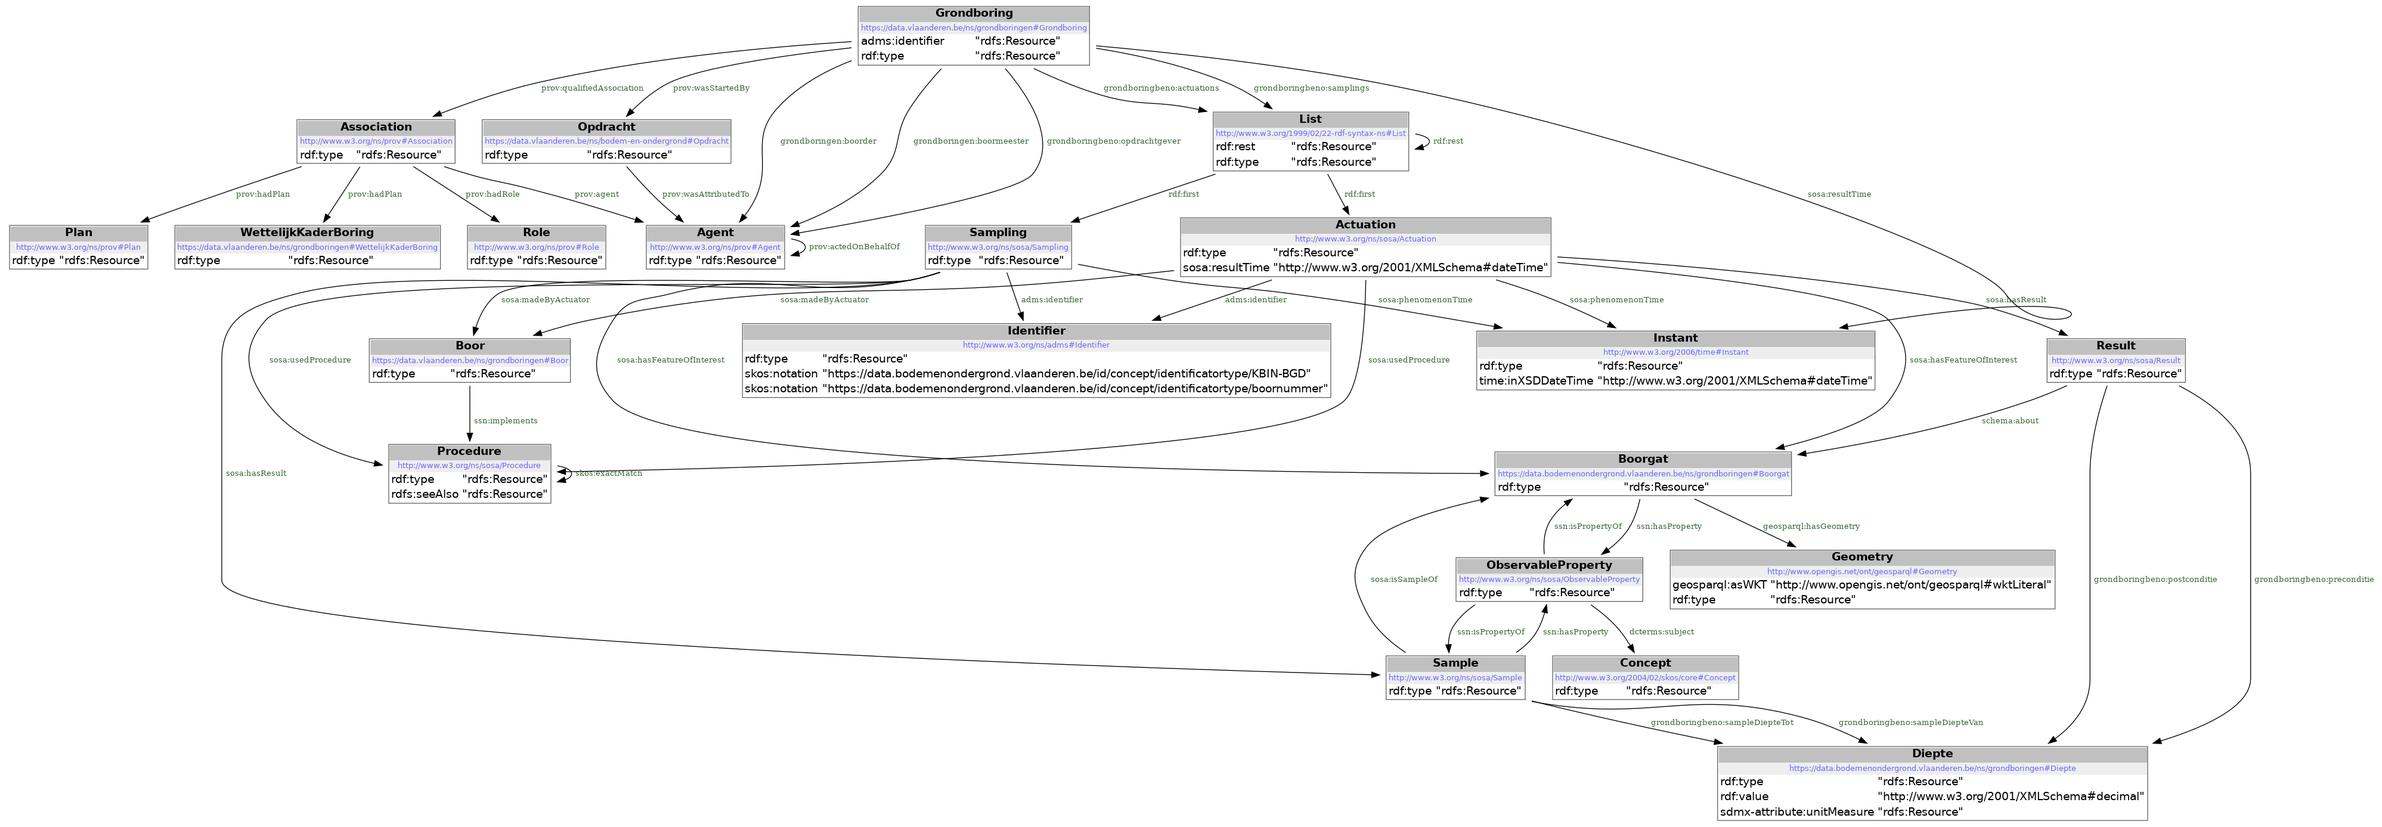
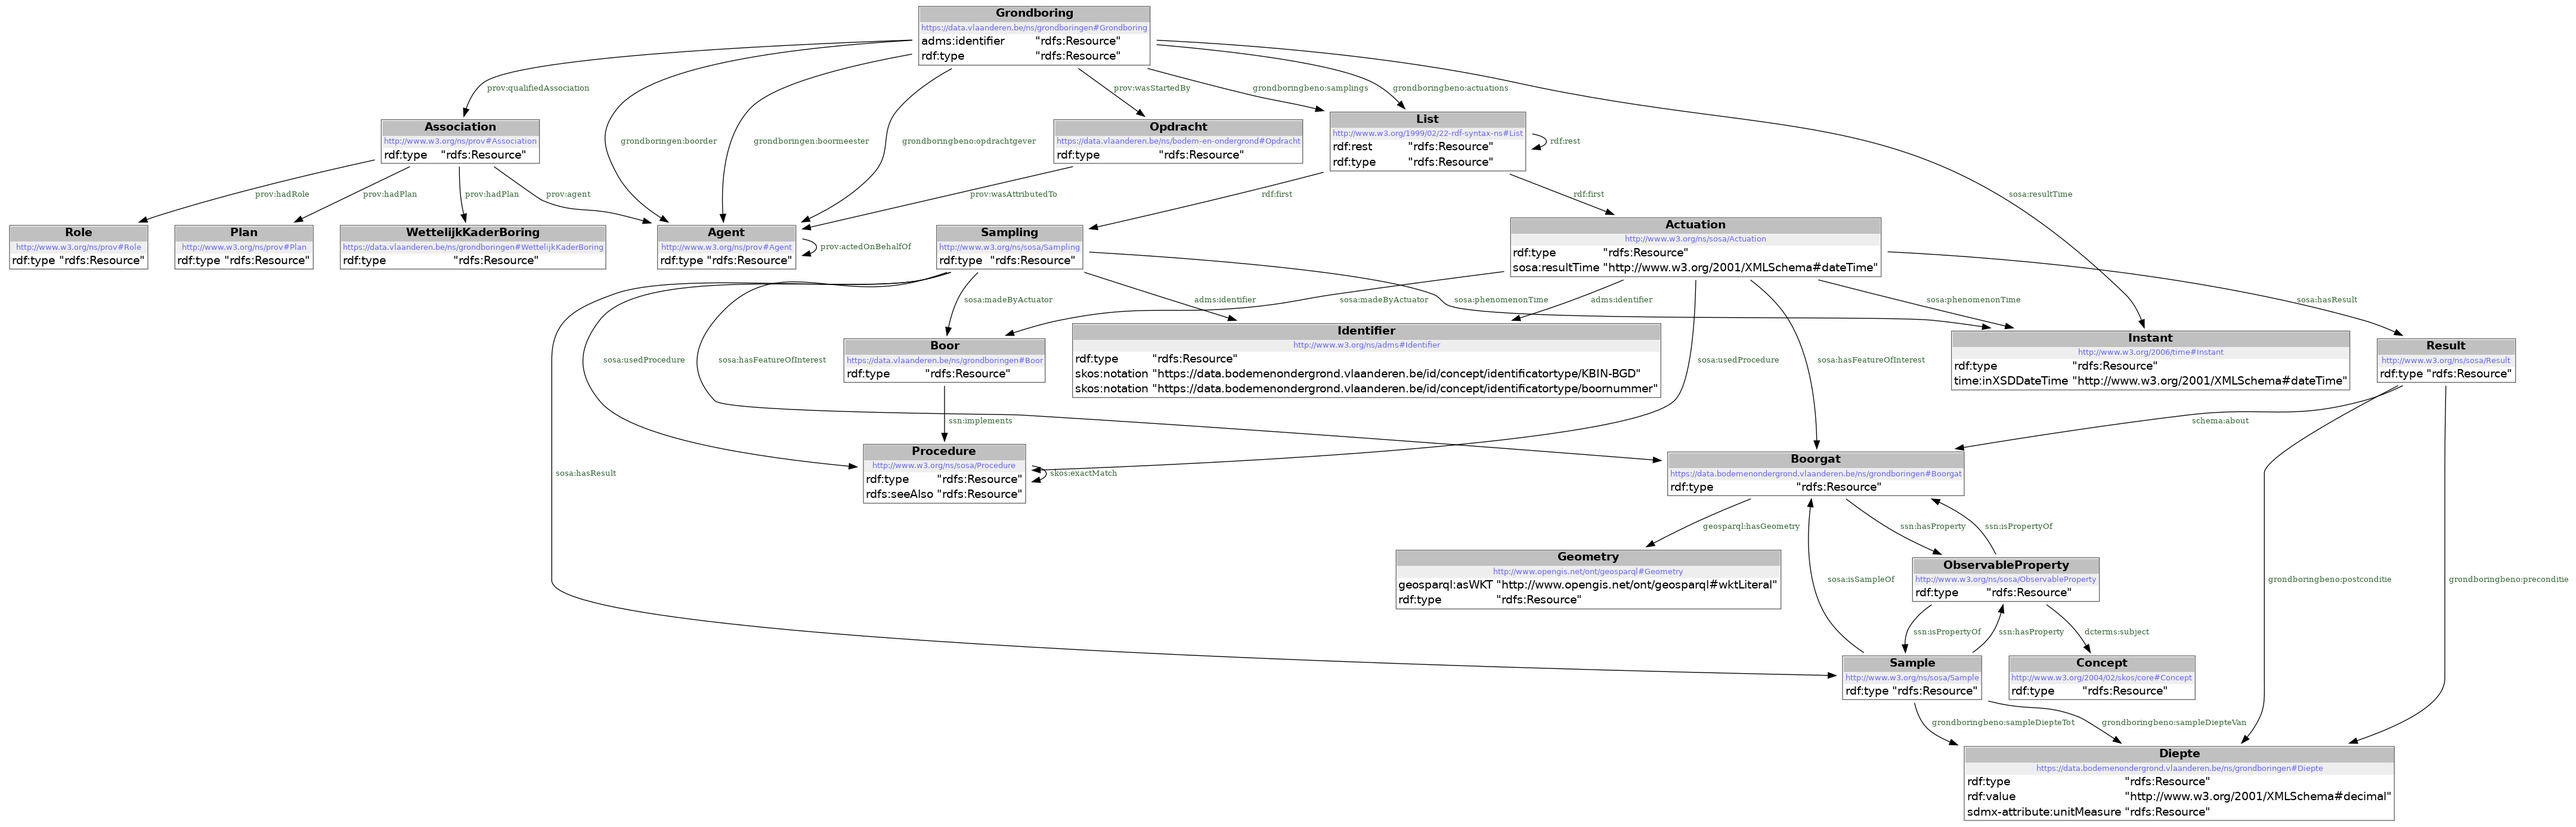
boorgat

diff --git a/src/frame_from_ttl.js b/src/frame_from_ttl.js
@@ -9,6 +9,7 @@ import {
     frame_actuation,
     frame_sampling,
     frame_bijlage,
+    frame_boorgat,
     rdf_to_jsonld
 } from './utils/variables.js';
 
@@ -26,3 +27,4 @@ fs.writeFileSync('result/observation-ssn-sosa-prov.jsonld', JSON.stringify(await
 fs.writeFileSync('result/actuation-ssn-sosa-prov.jsonld', JSON.stringify(await rdf_to_jsonld(reasoner.get_abox_dump(), frame_actuation), null, 4));
 fs.writeFileSync('result/sampling-ssn-sosa-prov.jsonld', JSON.stringify(await rdf_to_jsonld(reasoner.get_abox_dump(), frame_sampling), null, 4));
 fs.writeFileSync('result/bijlage-ssn-sosa-prov.jsonld', JSON.stringify(await rdf_to_jsonld(reasoner.get_abox_dump(), frame_bijlage), null, 4));
+fs.writeFileSync('result/boorgat-ssn-sosa-prov.jsonld', JSON.stringify(await rdf_to_jsonld(reasoner.get_abox_dump(), frame_boorgat), null, 4));

diff --git a/src/utils/variables.js b/src/utils/variables.js
@@ -23,9 +23,9 @@ const frame_actuation = {
     "@type": ["sosa:Actuation"],
 
 }
-const frame_sampling = {
+const frame_boorgat = {
     "@context": context,
-    "@type": ["sosa:Sampling"],
+    "@type": ["grondboringbeno:Boorgat"],
 
 }
 
@@ -48,6 +48,12 @@ const frame_bijlage = {
     }
 }
 
+const frame_sampling = {
+    "@context": context,
+    "@type": ["sosa:Sampling"],
+
+}
+
 const sortLines = str => Array.from(new Set(str.split(/\r?\n/))).sort().join('\n'); // To sort the dump of the reasoner for turtle pretty printing. Easier than using the Sink or Store.
 
 async function rdf_to_jsonld(nt, frame) {
@@ -66,5 +72,6 @@ export {
     frame_actuation,
     frame_sampling,
     frame_bijlage,
+    frame_boorgat,
     rdf_to_jsonld
 };

diff --git a/README.md b/README.md
@@ -12,5 +12,8 @@
 ## Model bijlage
 ![Model](src/documentation/model_bijlage.png)
 
+## Model boorgat
+![Model](src/documentation/model_boorgat.png)
+
 ## Model grondboring
 ![Model](src/documentation/model_grondboring.png)
